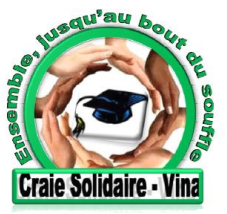
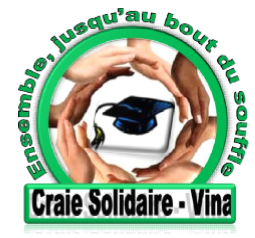
feat: config por deploiement

diff --git a/staticfiles/css/main.css b/staticfiles/css/main.css
@@ -7,11 +7,11 @@
       }
 
       .div-util, .div-vers, .div-etat, .div-post{
-        background-color: #06af5b;
-        height: 150px;
+        background-color: #0bb15e;
+        height: 160px;
       }
       .transparent-image{
-        opacity: 0.7;
+        opacity: 0.9;
       }
       h3{
         padding: 10px;
@@ -34,7 +34,6 @@
         background-color: #7CD1C0;
       }
      
-
    
 
       
